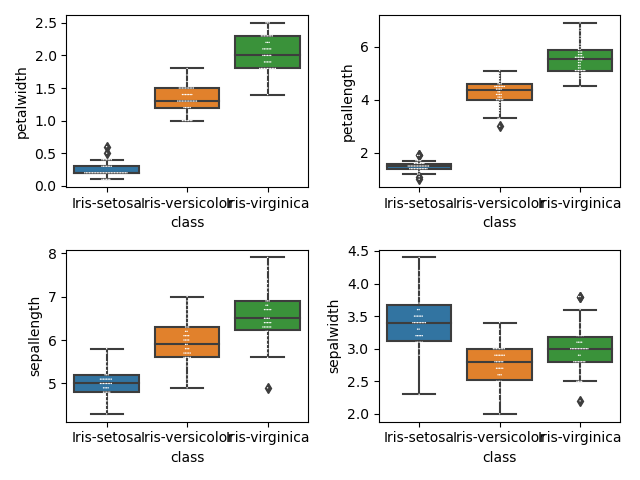
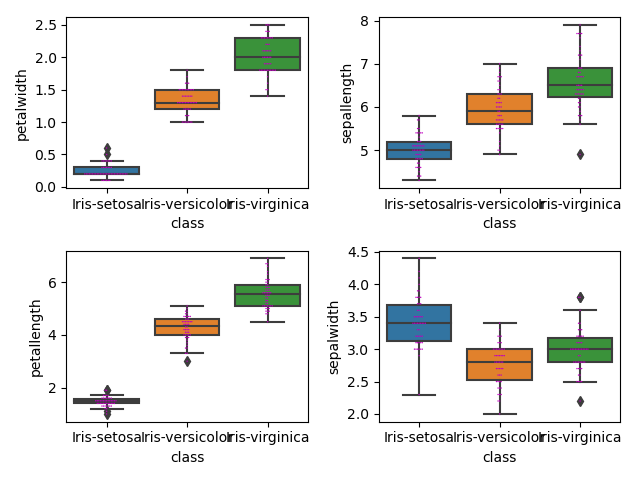
changes to make code run correctly

diff --git a/analysis.py b/analysis.py
@@ -133,23 +133,15 @@ plt.savefig("heatmap_virginica.png")
 # tight_layout() resizes the fonts of the plots to make them all fit better in the graphic 
 # savefig() saves the plots to a .png file name set below 
 
-def hist_var (n, variable, col, x_label,):
-    plt.subplot(2,2,n)
-    plt.hist(iris[variable], color = col)
-    plt.ylabel ("Frequency")
-    plt.xlabel (x_label)
-    plt.suptitle ("Variable Distribution")
-    plt.tight_layout()
-    plt.savefig("variable_histograms.png")
+f, axes = plt.subplots (2,2)
+sns.histplot(iris, x = "sepallength", label = "small", color = "green", kde = True, ax = axes [0][0])
+sns.histplot(iris, x = "sepalwidth", label = "small", color = "black", kde = True, ax = axes [1][1])
+sns.histplot(iris, x = "petallength", label = "small", color = "blue", kde = True, ax = axes [0][1])
+sns.histplot(iris, x = "petalwidth", label = "small",color = "red", kde = True, ax = axes [1][0])
+plt.savefig("variable_histograms.png")
 
 
-# The below 4 lines are generating a histgram plot using the function above
-# plot number (x of 4), variable_name, colour, and title for x axis  
-
-hist_var (1, "sepallength", "b", "Sepal Length")
-hist_var (2, "petallength", "r", "Petal Length")
-hist_var (3, "sepalwidth", "g", "Sepal Width")
-hist_var (4, "petalwidth", "m", "Petal Width")
+ 
 
 
 # fuction created for a histogram colour coded by species in order to see spread more clearly
@@ -160,7 +152,7 @@ hist_var (4, "petalwidth", "m", "Petal Width")
 # tight_layout() resizes the fonts of the plots to make them all fit better in the graphic 
 # savefig() saves output as a .png file
 
-'''
+
 def hist_func (n ,variable, x_label):
     plt.suptitle ("Variable Distribution When Split by Species")
     plt.subplot(2,2,n)
@@ -171,17 +163,17 @@ def hist_func (n ,variable, x_label):
     plt.ylabel ("Frequency")
     plt.tight_layout()
     plt.savefig ("variable_species_histogram.png")
-'''
+
 
 # The 4 lines below are creating a histogram for each 
 # The variables are as follows: plot number (x of 4), variable, x-axis label
 
-'''
+
 hist_func (1, "petalwidth", "Petal Width (cm's)")
 hist_func (2, "petallength", "Petal length (cm's)")
 hist_func (3, "sepalwidth", "Sepal Width (cm's)")
 hist_func (4, "sepallength", "Sepal Length (cm's)")
-'''
+
 
 # Defining a function for scatterplot analysis with variables
 # x/ylabel takes in axis names
@@ -217,23 +209,23 @@ scatter_func ("Sepal Length", "Petal Width", "sepallength", "petalwidth", "Sleng
 # savefig() saves the plot as a .png file
 
 
-
+'''
 def lm_plot( x_value, y_value,output_file):
     sns.lmplot (x = x_value, y = y_value, data = iris,height = 8,  hue = "class", scatter_kws = {"s": 50})
     plt.savefig (output_file)
-
+'''
 
 # Creating the lmplots using the following variables
 # (x and y variables, output name)
 
-
+'''
 lm_plot("sepallength", "petallength", "lm_1.png")
 lm_plot("sepallength", "sepalwidth", "lm_2.png")
 lm_plot("petallength", "petalwidth", "lm_3.png")
 lm_plot("sepalwidth", "petallength", "lm_4.png")
 lm_plot("sepalwidth", "petalwidth", "lm_5.png")
-lm_ plot("sepallength", "petalwidth", "lm_6.png")
-
+lm_plot("sepallength", "petalwidth", "lm_6.png")
+'''
 
 # Function to create a boxplot/swarmplot 
 # subplot() is used for multiple plots on the same graphic and takes arguments (row,column,plot no.)
@@ -242,56 +234,44 @@ lm_ plot("sepallength", "petalwidth", "lm_6.png")
 # data = dataset, size = size of marker and color changes the colour of the marker point 
 
 
-def swarmbox_plt(n, variable):
-    plt. subplot (2,2,n)
+def swarm_plt(variable, output):
     sns.boxplot(x = "class", y = variable, data = iris)
-    sns.swarmplot( x = "class", y = variable, data = iris, size = 1, color = "m")
+    sns.swarmplot( x = "class", y = variable, data = iris, size = 3, color = "m")
+    plt.savefig (output)
+    plt.close()
+swarm_plt("petalwidth", "boxplot_petal_w.png")
+swarm_plt("petallength", "boxplot_petal_l.png")
+swarm_plt("sepallength", "boxplot_sepal_l.png")
+swarm_plt("sepalwidth", "boxplot_sepal_w.png")
 
 
-# the following 4 lines create the equivalent plots using the following variables
-# (plot number, variable type)
 
 
-swarmbox_plt(1, "petalwidth")
-swarmbox_plt(2, "petallength")
-swarmbox_plt(3, "sepallength")
-swarmbox_plt(4, "sepalwidth")
-
-
-# the next 2 lines set the display plot
-# tight_layout() resizes the fonts of the plots to make them all fix better in the graphic 
-# savefig() saves output as a .png file
-
+f, axes = plt.subplots (2,2)
+sns.boxplot(x = "class", y = "petalwidth", data = iris, ax = axes [0][0])
+sns.swarmplot( x = "class", y = "petalwidth", data = iris, size = 1, color = "m", ax = axes [0][0])
+sns.boxplot(x = "class", y = "petallength", data = iris, ax = axes [1][0])
+sns.swarmplot( x = "class", y = "petallength", data = iris, size = 1, color = "m", ax = axes [1][0])
+sns.boxplot(x = "class", y = "sepallength", data = iris, ax = axes [0][1])
+sns.swarmplot( x = "class", y = "sepallength", data = iris, size = 1, color = "m", ax = axes [0][1])
+sns.boxplot(x = "class", y = "sepalwidth", data = iris, ax = axes [1][1])
+sns.swarmplot( x = "class", y = "sepalwidth", data = iris, size = 1, color = "m", ax = axes [1][1])
 
 plt.tight_layout()
 plt.savefig("box_swarm_plot.png")
 
 
-#swarmplot/boxplot for individual variables 
-# boxplot() creates the boxplot and takes in species type as x, variable as y, and data = dataset
-# swarmplot() creates the swarmplot and like boxplot, takes in species type and variable as x + y,
-# data = dataset, size = size of marker and color changes the colour of the marker point 
-# savefig() saves output as a .png file
 
-'''
-def swarm_plt(variable, output):
-    #plt.figure()
-    sns.boxplot(x = "class", y = variable, data = iris)
-    sns.swarmplot( x = "class", y = variable, data = iris, size = 3, color = "m")
-    plt.savefig (output)
-'''
 
-# creating the swarm/box plots using the function above & the following variables
-# (variable, output file name)
 
-'''
-swarm_plt("petalwidth", "boxplot_petal_w.png")
-swarm_plt("petallength", "boxplot_petal_l.png")
-swarm_plt("sepallength", "boxplot_sepal_l.png")
-swarm_plt("sepalwidth", "boxplot_sepal_w.png")
-'''
 
-# pairplot takes in the following variables to output the figure
+
+
+
+
+
+
+#pairplot takes in the following variables to output the figure
 # pairplot() takes in: data = dataset, "kind" sets the output type, "hue" sorts by species
 # savefig() saves the output as a .png file   
 
